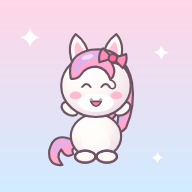
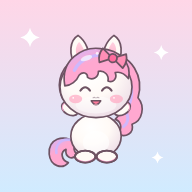
게임 중심: 판당 문제 3개·달리기 조각, 별은 도착·문제·당근으로, 포포 다시 그림
Claude-Session: https://claude.ai/code/session_01C8y8cjb2mzSbaBnT36YeeH

diff --git a/js/art.js b/js/art.js
@@ -2,7 +2,7 @@
 'use strict';
 const ART = (() => {
   const OL = '#6e5363';            // 테두리
-  const SW = 3.6;                  // 테두리 굵기
+  const SW = 3.0;                  // 테두리 굵기
   const FURS = {   // f 털, s 그림자, m 갈기, m2 갈기 줄, mz 주둥이
     white:    { name: '하얀 털',   f: '#fffaf6', s: '#ecdbe6', m: '#ffa8d0', m2: '#cbb8ff', mz: '#ffffff', price: 0 },
     pink:     { name: '분홍 털',   f: '#ffd9e6', s: '#f2bdd1', m: '#a98bfa', m2: '#e5dbff', mz: '#fff2f7', price: 30 },
@@ -353,57 +353,79 @@ const ART = (() => {
   /* ---------- 포포 (아기 포니, 주인공) ----------
      look: {fur, hat, cloth, face, shoes, back}
      pose: stand run0 run1 jump cheer, expr: normal happy oops wow wink sleep */
+  function heroEyes(expr, id) {
+    const y = 124;
+    const open = (x, side) => `<ellipse cx="${x}" cy="${y}" rx="9.6" ry="11.6" fill="url(#${id}e)"/>` +
+      `<ellipse cx="${x + 2.6}" cy="${y - 5}" rx="3.8" ry="4.4" fill="#fff"/><circle cx="${x - 3}" cy="${y + 5}" r="1.8" fill="#fff"/><circle cx="${x + 4}" cy="${y + 4}" r="1" fill="#fff" opacity=".8"/>` +
+      `<path d="M${x + side * 8} ${y - 8} q${side * 5} -3 ${side * 7} -8 M${x + side * 9.6} ${y - 3} q${side * 5} -1 ${side * 8} -4" fill="none" stroke="${OL}" stroke-width="2.2" stroke-linecap="round"/>`;
+    const smile = (x) => `<path d="M${x - 8} ${y + 2} Q${x} ${y - 9} ${x + 8} ${y + 2}" fill="none" stroke="${OL}" stroke-width="3.4" stroke-linecap="round"/>`;
+    switch (expr) {
+      case 'happy': return smile(82) + smile(118);
+      case 'wink': return open(82, -1) + smile(118);
+      case 'oops': return `<path d="M76 ${y - 7} L88 ${y} L76 ${y + 7} M124 ${y - 7} L112 ${y} L124 ${y + 7}" fill="none" stroke="${OL}" stroke-width="3.4" stroke-linecap="round" stroke-linejoin="round"/>`;
+      case 'sleep': return `<path d="M74 ${y} Q82 ${y + 7} 90 ${y} M110 ${y} Q118 ${y + 7} 126 ${y}" fill="none" stroke="${OL}" stroke-width="3.2" stroke-linecap="round"/>`;
+      case 'wow': return open(82, -1) + open(118, 1) + sparkle(84, y - 2, 5.5) + sparkle(120, y - 2, 5.5);
+    }
+    return open(82, -1) + open(118, 1);
+  }
+  function heroMouth(expr) {
+    const y = 146;
+    if (expr === 'sleep') return `<ellipse cx="100" cy="${y}" rx="3.4" ry="2.6" fill="#ff8fab"/>`;
+    if (expr === 'oops') return `<ellipse cx="100" cy="${y + 1}" rx="4.6" ry="5.4" fill="#e64980" stroke="${OL}" stroke-width="2.2"/>`;
+    if (expr === 'happy' || expr === 'wow' || expr === 'wink')
+      return `<path d="M92 ${y - 3} Q100 ${y + 10} 108 ${y - 3}Z" fill="#ff7b9c" stroke="${OL}" stroke-width="2.4" stroke-linejoin="round"/><path d="M96 ${y + 3} Q100 ${y + 6} 104 ${y + 3}" fill="#ffc9d6"/>`;
+    return `<path d="M94 ${y - 2} Q97 ${y + 3} 100 ${y - 1} Q103 ${y + 3} 106 ${y - 2}" fill="none" stroke="${OL}" stroke-width="2.4" stroke-linecap="round"/>`;
+  }
   function tori(look = {}, pose = 'stand', expr = 'normal') {
     const F = FURS[look.fur] || FURS.white;
     const P = POSE[pose] || POSE.stand;
     const id = uid();
     let s = `<svg xmlns="http://www.w3.org/2000/svg" viewBox="0 0 200 260" width="200" height="260">`;
-    s += `<defs><radialGradient id="${id}g" cx="38%" cy="28%" r="78%"><stop offset="0" stop-color="#ffffff"/><stop offset=".42" stop-color="${F.f}"/><stop offset="1" stop-color="${F.s}"/></radialGradient>
-      <linearGradient id="${id}m" x1="0" y1="0" x2="1" y2="1"><stop offset="0" stop-color="${F.m2}"/><stop offset=".35" stop-color="${F.m}"/><stop offset="1" stop-color="${F.m}"/></linearGradient></defs>`;
+    s += `<defs><radialGradient id="${id}g" cx="40%" cy="30%" r="75%"><stop offset="0" stop-color="#ffffff"/><stop offset=".5" stop-color="${F.f}"/><stop offset="1" stop-color="${F.s}"/></radialGradient>
+      <linearGradient id="${id}m" x1="0" y1="0" x2=".7" y2="1"><stop offset="0" stop-color="${F.m2}"/><stop offset=".45" stop-color="${F.m}"/><stop offset="1" stop-color="${F.m}"/></linearGradient>
+      <linearGradient id="${id}e" x1="0" y1="0" x2="0" y2="1"><stop offset="0" stop-color="#3b2a45"/><stop offset=".55" stop-color="#5c3f78"/><stop offset="1" stop-color="#b48ad6"/></linearGradient>
+      <linearGradient id="${id}i" x1="0" y1="0" x2="0" y2="1"><stop offset="0" stop-color="#ffd1e0"/><stop offset="1" stop-color="#ffb0c8"/></linearGradient></defs>`;
     const FG = `url(#${id}g)`, MG = `url(#${id}m)`;
+    const lw = 'stroke-width="2.8"';
     s += backLayer(look.back);
-    // 뒷갈기: 한쪽으로 길게 흘러내려요
-    s += `<path d="M96 62 Q150 58 160 112 Q166 152 150 188 Q140 200 128 196 Q140 180 136 160 Q128 178 114 180 Q130 156 128 128 Q124 96 96 62Z" ${st(MG)}/>`;
-    s += `<path d="M146 108 Q154 142 142 176" fill="none" stroke="${F.m2}" stroke-width="4" stroke-linecap="round" opacity=".9"/>`;
-    s += `<path d="M76 70 Q44 84 44 120 Q46 134 56 142 Q60 132 62 124 Q68 132 76 130 Q68 114 76 96Z" ${st(MG)}/>`;
-    // 꼬리 (갈기 색)
-    s += `<path d="M64 210 Q30 192 22 226 Q20 252 44 250 Q32 236 42 224 Q50 240 62 232 Q58 222 66 220Z" ${st(MG)}/><path d="M56 214 Q36 210 34 228" fill="none" stroke="${F.m2}" stroke-width="4" stroke-linecap="round" opacity=".9"/>`;
+    // 뒷갈기: 몽글몽글 흘러내림 (오른쪽 길게, 왼쪽 짧게)
+    s += `<path d="M118 62 C162 66 180 104 170 138 C182 152 178 176 160 182 C164 196 150 206 136 198 C146 188 140 176 132 174 C146 160 142 140 134 132 C146 112 140 84 118 62Z" ${st(MG, lw)}/>`;
+    s += `<path d="M150 98 C162 116 162 136 154 152 M150 162 C156 172 152 182 146 186" fill="none" stroke="${F.m2}" stroke-width="5" stroke-linecap="round" opacity=".9"/>`;
+    s += `<path d="M70 72 C42 82 34 112 42 134 C46 146 58 148 62 138 C56 128 60 116 68 108Z" ${st(MG, lw)}/>`;
+    // 꼬리
+    s += `<path d="M68 214 C44 196 20 208 22 232 C24 252 44 258 54 246 C42 242 40 228 50 224 C48 236 60 244 68 232 C62 226 62 220 68 214Z" ${st(MG, lw)}/><path d="M56 208 C40 206 32 218 34 230" fill="none" stroke="${F.m2}" stroke-width="4.4" stroke-linecap="round" opacity=".9"/>`;
     // 몸
-    s += `<ellipse cx="100" cy="202" rx="42" ry="37" ${st(FG)}/>`;
+    s += `<ellipse cx="100" cy="202" rx="42" ry="37" ${st(FG, lw)}/>`;
     s += `<clipPath id="${id}b"><ellipse cx="100" cy="202" rx="40" ry="35"/></clipPath>`;
-    s += `<ellipse cx="100" cy="212" rx="24" ry="20" fill="#fff" opacity=".55" clip-path="url(#${id}b)"/>`;
-    if (look.cloth) s += `<g clip-path="url(#${id}b)">${clothClip(look.cloth)}</g><ellipse cx="100" cy="202" rx="42" ry="37" fill="none" stroke="${OL}" stroke-width="${SW}"/>`;
-    // 발 (발굽은 갈기 색)
+    s += `<ellipse cx="100" cy="212" rx="22" ry="19" fill="#fff" opacity=".6" clip-path="url(#${id}b)"/>`;
+    if (look.cloth) s += `<g clip-path="url(#${id}b)">${clothClip(look.cloth)}</g><ellipse cx="100" cy="202" rx="42" ry="37" fill="none" stroke="${OL}" stroke-width="3"/>`;
     s += foot(P.L[0], P.L[1], P.L[2], F.f, look.shoes, F.m) + foot(P.R[0], P.R[1], P.R[2], F.f, look.shoes, F.m);
     s += clothOver(look.cloth);
-    // 앞다리
     const ARM = { raincoat: '#ffd43b', sailor: '#fff', princess: '#d0bfff', sparkledress: '#91a7ff', stripe: '#fff', overall: '#ffe28a', dress: '#ffb3cc', heartshirt: '#fff', pajama: '#a5d8ff', bee: '#ffd43b', tutu: '#ffc9de', hanbok: '#ff8fa3' };
     const armFill = ARM[look.cloth] || F.f;
-    s += `<ellipse cx="64" cy="${194 + P.ay}" rx="10" ry="15" transform="rotate(${P.aL} 66 ${182 + P.ay})" ${st(armFill)}/>`;
-    s += `<ellipse cx="136" cy="${194 + P.ay}" rx="10" ry="15" transform="rotate(${P.aR} 134 ${182 + P.ay})" ${st(armFill)}/>`;
+    const arm = (cx, rot, px) => `<g transform="rotate(${rot} ${px} ${182 + P.ay})"><ellipse cx="${cx}" cy="${194 + P.ay}" rx="10" ry="15" ${st(armFill, lw)}/><path d="M${cx - 9} ${200 + P.ay} Q${cx} ${213 + P.ay} ${cx + 9} ${200 + P.ay} L${cx + 8} ${204 + P.ay} Q${cx} ${212 + P.ay} ${cx - 8} ${204 + P.ay}Z" fill="${F.m}"/></g>`;
+    s += arm(64, P.aL, 66) + arm(136, P.aR, 134);
     if (look.cloth === 'hanbok') {
       const band = (cx, rot) => `<g transform="rotate(${rot} ${cx < 100 ? 66 : 134} ${182 + P.ay})">${['#ffe066', '#69db7c', '#74c0fc', '#fff'].map((c, i) => `<rect x="${cx - 9}" y="${186 + P.ay + i * 4}" width="18" height="3" fill="${c}"/>`).join('')}</g>`;
       s += band(64, P.aL) + band(136, P.aR);
     }
-    // 귀
-    s += `<path d="M64 88 Q48 52 66 32 Q86 46 90 74Z" ${st(F.f)}/><path d="M68 76 Q60 54 68 44 Q80 54 82 70Z" fill="#ffc2d6"/>`;
-    s += `<path d="M136 88 Q152 52 134 32 Q114 46 110 74Z" ${st(F.f)}/><path d="M132 76 Q140 54 132 44 Q120 54 118 70Z" fill="#ffc2d6"/>`;
+    // 귀 (동글 잎 모양)
+    s += `<path d="M66 84 C54 66 56 42 70 34 C84 44 90 62 88 76Z" ${st(F.f, lw)}/><path d="M70 74 C64 62 66 50 72 45 C80 54 82 64 81 72Z" fill="url(#${id}i)"/>`;
+    s += `<path d="M134 84 C146 66 144 42 130 34 C116 44 110 62 112 76Z" ${st(F.f, lw)}/><path d="M130 74 C136 62 134 50 128 45 C120 54 118 64 119 72Z" fill="url(#${id}i)"/>`;
     // 머리
-    s += `<ellipse cx="100" cy="118" rx="58" ry="52" ${st(FG)}/>`;
-    // 주둥이 (은은하게)
-    s += `<ellipse cx="100" cy="146" rx="30" ry="15.5" fill="${F.mz}" opacity=".95"/>`;
-    s += `<path d="M90 141 q2 -2 4 0 M106 141 q2 -2 4 0" fill="none" stroke="${OL}" stroke-width="2.2" stroke-linecap="round" opacity=".55"/>`;
+    s += `<ellipse cx="100" cy="120" rx="60" ry="51" ${st(FG, lw)}/>`;
+    s += `<ellipse cx="100" cy="150" rx="34" ry="14" fill="#fff" opacity=".45"/>`;
     // 볼
-    if (look.face === 'heartcheeks') s += heart(66, 134, 8, '#ff9cbc', 1.6) + heart(134, 134, 8, '#ff9cbc', 1.6);
-    else s += `<ellipse cx="66" cy="134" rx="10" ry="6.5" fill="#ffadc6" opacity=".8"/><ellipse cx="134" cy="134" rx="10" ry="6.5" fill="#ffadc6" opacity=".8"/>`;
-    s += eyes(expr);
-    s += `<g transform="translate(0 12)">${mouth(expr)}</g>`;
-    // 앞머리: 옆으로 쓸어 넘긴 갈기 + 동그란 컬
-    s += `<path d="M58 106 Q50 66 92 58 Q138 52 150 90 Q140 80 126 80 Q136 96 124 108 Q118 88 100 86 Q84 86 76 98 Q70 108 58 106Z" ${st(MG)}/>`;
-    s += `<path d="M66 92 Q80 68 112 66" fill="none" stroke="${F.m2}" stroke-width="5" stroke-linecap="round" opacity=".95"/>`;
-    s += `<path d="M124 108 Q134 112 132 120 Q128 126 122 120" fill="none" stroke="${OL}" stroke-width="2.6" stroke-linecap="round"/>`;
-    s += `<ellipse cx="86" cy="70" rx="10" ry="4" fill="#fff" opacity=".6" transform="rotate(-16 86 70)"/>`;
-    s += faceItem(look.face);
+    if (look.face === 'heartcheeks') s += heart(68, 140, 8, '#ff9cbc', 1.6) + heart(132, 140, 8, '#ff9cbc', 1.6);
+    else s += `<ellipse cx="66" cy="140" rx="11" ry="7" fill="#ffadc6" opacity=".75"/><ellipse cx="134" cy="140" rx="11" ry="7" fill="#ffadc6" opacity=".75"/><circle cx="62" cy="138" r="1.4" fill="#fff"/><circle cx="130" cy="138" r="1.4" fill="#fff"/>`;
+    s += heroEyes(expr, id);
+    s += `<path d="M95 138 q2 -1.6 4 0 M101 138 q2 -1.6 4 0" fill="none" stroke="${OL}" stroke-width="1.8" stroke-linecap="round" opacity=".45"/>`;
+    s += heroMouth(expr);
+    // 앞머리: 몽글몽글 쓸어 넘긴 갈기 + 정수리 꼬불
+    s += `<path d="M48 118 C40 74 78 52 108 56 C140 58 160 80 154 106 C148 98 140 94 132 96 C136 106 128 114 120 110 C122 100 114 92 104 94 C104 104 94 110 86 104 C86 96 78 94 72 100 C68 110 58 118 48 118Z" ${st(MG, lw)}/>`;
+    s += `<path d="M64 92 C74 72 96 64 120 68" fill="none" stroke="${F.m2}" stroke-width="5.5" stroke-linecap="round" opacity=".95"/>`;
+    s += `<ellipse cx="84" cy="72" rx="10" ry="4.2" fill="#fff" opacity=".65" transform="rotate(-20 84 72)"/><circle cx="102" cy="64" r="2.4" fill="#fff" opacity=".8"/>`;
+    s += ['glasses', 'sunglasses', 'heartglasses', 'goldstar'].includes(look.face) ? `<g transform="translate(-1 6)">${faceItem(look.face)}</g>` : faceItem(look.face);
     s += hatLayer(look.hat);
     return s + `</svg>`;
   }

diff --git a/js/runner.js b/js/runner.js
@@ -4,7 +4,7 @@
 const Runner = (() => {
   let cv, c, W = 0, H = 0, dpr = 1, u = 1, gy = 0, tx = 0;
   let raf = 0, last = 0, G = null, paused = false, holding = false;
-  const SPEED = 340, SEG = 2400, OW = 104, BLOCK_Y = 300, POLE_H = 460;
+  const SPEED = 360, SEG = 2400, OW = 104, BLOCK_Y = 300, POLE_H = 460;
 
   /* 월드마다 풍경: 하늘 3색, 산 3겹, 풀, 흙 */
   const THEMES = {
@@ -49,33 +49,37 @@ const Runner = (() => {
     const obs = [], items = [];
     const boss = opt.mode === 'boss';
     const hurdles = [];
+    /* 달리기 조각 (길이 600): 문제 사이를 이걸로 채워요 */
+    const PIECES = {
+      line: (p) => { for (let k = 0; k < 6; k++) items.push({ x: p + 60 + k * 62, y: 60, kind: 'c' }); },
+      hop: (p) => { hurdles.push({ x: p + 260, w: 60, h: 58 }); for (let k = 0; k < 5; k++) items.push({ x: p + 170 + k * 60, y: 90 + Math.sin((k / 4) * Math.PI) * 110, kind: 'c' }); },
+      tall: (p) => { hurdles.push({ x: p + 280, w: 60, h: 104, tall: true }); items.push({ x: p + 310, y: 260, kind: 's' }); for (let k = 0; k < 3; k++) items.push({ x: p + 420 + k * 60, y: 60, kind: 'c' }); },
+      twin: (p) => { hurdles.push({ x: p + 180, w: 60, h: 58 }, { x: p + 420, w: 60, h: 58 }); items.push({ x: p + 210, y: 180, kind: 'c' }, { x: p + 450, y: 180, kind: 'c' }, { x: p + 330, y: 60, kind: 'c' }); },
+      cloud: (p, gives) => { items.push({ x: p + 300, y: BLOCK_Y, kind: 'q', gives: gives || 'carrots', bump: 0 }); for (let k = 0; k < 4; k++) items.push({ x: p + 120 + k * 60, y: 60, kind: 'c' }); },
+      sky: (p) => { for (let k = 0; k < 6; k++) items.push({ x: p + 100 + k * 60, y: 260 + Math.sin((k / 5) * Math.PI) * 120, kind: 'c' }); items.push({ x: p + 260, y: 420, kind: 's' }); },
+      stairs: (p) => { hurdles.push({ x: p + 120, w: 60, h: 58 }, { x: p + 360, w: 60, h: 104, tall: true }); for (let k = 0; k < 6; k++) items.push({ x: p + 100 + k * 70, y: 120 + k * 30, kind: 'c' }); },
+      big: (p) => { items.push({ x: p + 300, y: 300, kind: 'big' }); hurdles.push({ x: p + 250, w: 60, h: 58 }); },
+    };
+    const ORDER = [['line', 'hop', 'cloud', 'sky', 'tall', 'twin', 'line', 'hop'], ['hop', 'line', 'twin', 'cloud', 'sky', 'stairs', 'big', 'hop'], ['line', 'tall', 'cloud', 'stairs', 'sky', 'twin', 'hop', 'big']];
+    const PL = 600, SEGN = 8;
     let x = 1150;
+    if (!boss && opt.mode !== 'bonus') {   // 처음엔 문제 없이 신나게 달리기부터
+      PIECES.line(420); PIECES.hop(1020); PIECES.sky(1620);
+      x = 2400;
+    }
     if (!boss) {
+      const gifts = ['carrots', 'gold', Math.random() < 0.5 ? 'star' : 'balloon'];
       for (let i = 0; i < opt.count; i++) {
         obs.push({ x, type: T.obst[i % 2], qi: i, asked: false, done: false, jumpReady: false });
-        const o = x + OW;
-        // 당근 줄
-        const pat = ['line', 'arc', 'high', 'arc', 'line'][(i + opt.seed) % 5];
-        const a = o + 200;
-        if (pat === 'line') for (let k = 0; k < 5; k++) items.push({ x: a + k * 62, y: 60, kind: 'c' });
-        if (pat === 'arc') for (let k = 0; k < 6; k++) items.push({ x: a + k * 58, y: 60 + Math.sin((k / 5) * Math.PI) * 170, kind: 'c' });
-        if (pat === 'high') for (let k = 0; k < 4; k++) items.push({ x: a + 20 + k * 58, y: 200, kind: 'c' });
-        // 뛰어넘는 장애물 두 개 (위로 당근 무지개)
-        const h1 = o + 700, h2 = o + 1520;
-        const tall2 = i % 2 === 1;
-        hurdles.push({ x: h1, w: 60, h: 58, tall: false });
-        hurdles.push({ x: h2, w: 60, h: tall2 ? 104 : 58, tall: tall2 });
-        for (let k = 0; k < 5; k++) items.push({ x: h1 - 90 + k * 60, y: 90 + Math.sin((k / 4) * Math.PI) * 110, kind: 'c' });
-        items.push({ x: h2 + 30, y: tall2 ? 250 : 200, kind: 's' });
-        // ❓ 선물 구름
-        const gives = ['carrots', 'gold', Math.random() < 0.5 ? 'star' : 'balloon', ['carrots', 'star', 'balloon'][Math.floor(Math.random() * 3)], 'carrots'][i];
-        if (gives) items.push({ x: o + 1120, y: BLOCK_Y, kind: 'q', gives, bump: 0 });
-        if (i === 2) items.push({ x: o + 1880, y: 300, kind: 'big' });
-        // 숨은 황금 당근 (꾹 또는 2단 점프로)
-        if (i === 1) items.push({ x: o + 1330, y: 430, kind: 'G', gi: 0 });
-        if (i === 3) items.push({ x: o + 1860, y: 450, kind: 'G', gi: 2 });
-        x += SEG;
+        const o = x + OW + 160;
+        const order = ORDER[(i + opt.seed) % 3];
+        order.forEach((name, k) => PIECES[name](o + k * PL, name === 'cloud' ? gifts[i % 3] : null));
+        // 숨은 황금 당근 (꾹 또는 2단 점프로): 판마다 2개는 높은 곳, 1개는 선물 구름 속
+        if (i === 0) items.push({ x: o + 5 * PL + 300, y: 440, kind: 'G', gi: 0 });
+        if (i === opt.count - 1) items.push({ x: o + 6 * PL + 260, y: 450, kind: 'G', gi: 2 });
+        x += OW + 160 + SEGN * PL + 300;
       }
+      if (opt.count > 0 && !items.some((it) => it.gives === 'gold')) { const q = items.find((it) => it.kind === 'q'); if (q) q.gives = 'gold'; }
     }
     if (opt.mode === 'bonus') {   // 보너스 길: 문제 없이 당근이 가득
       for (let k = 0; k < 44; k++) {
@@ -88,9 +92,9 @@ const Runner = (() => {
         else items.push({ x: bx, y: 240, kind: 's' }, { x: bx + 70, y: 60, kind: 'c' });
       }
     }
-    const finishX = boss ? 1e9 : opt.mode === 'bonus' ? 7600 : obs[obs.length - 1].x + 2150;
+    const finishX = boss ? 1e9 : opt.mode === 'bonus' ? 7600 : x - 300 + 250;
     G = {
-      opt, T, env, obs, items, hurdles, finishX, boss, bumps: 0, scroll: 0, speed: 0, target: SPEED, state: 'run',
+      opt, T, env, obs, items, hurdles, finishX, boss, bumps: 0, carrotTotal: items.filter((it) => it.kind === 'c').length, carrotGot: 0, scroll: 0, speed: 0, target: SPEED, state: 'run',
       tori: { y: 0, vy: 0, air: false, dbl: false, holdT: 0, expr: 'normal', exprT: 0, pose: 'run0', poseT: 0, squash: 0 },
       hist: [], parts: [], amb: [], seasonal: [], time: 0, rescueT: 0, look: opt.look,
       power: null, streak: 0, streakT: 0, shake: 0, gold: [false, false, false],
@@ -161,7 +165,7 @@ const Runner = (() => {
     if (!G || !G.boss) return;
     const B = G.bossS;
     B.shots.push({ t: 0, dmg, big: dmg >= 2 });
-    B.phaseT = 3.6; B.puffT = 0.35;
+    B.phaseT = 5.2; B.puffT = 0.35; B.puff2 = 2.2;
     G.state = 'run'; G.target = SPEED * 0.6;
     react('happy', 1.2); Sfx.jump();
   }
@@ -264,7 +268,7 @@ const Runner = (() => {
           hearts(fx, gy - 160 * u);
           fireworks(5);
         }
-        if (g.rescueT > 3.0 && !g.ended) { g.ended = true; g.opt.onFinish({ gold: g.gold.slice(), pole: g.pole ? g.pole.tier : 1 }); }
+        if (g.rescueT > 3.0 && !g.ended) { g.ended = true; g.opt.onFinish({ gold: g.gold.slice(), pole: g.pole ? g.pole.tier : 1, carrots: g.carrotGot / Math.max(1, g.carrotTotal), bumps: g.bumps }); }
       }
     }
     // 뛰어넘는 장애물
@@ -326,7 +330,7 @@ const Runner = (() => {
       if (Math.abs(sx - tx) < 58 * u && it.y > t.y / u - 20 && it.y < t.y / u + 200) {
         it.got = true;
         const sy = gy - it.y * u;
-        if (it.kind === 'c') { g.streak++; g.streakT = 1.1; Sfx.carrot(g.streak); g.opt.onCarrot(1, sx, sy, 'c'); burst(sx, sy, '#ff922b', 6); }
+        if (it.kind === 'c') { g.carrotGot++; g.streak++; g.streakT = 1.1; Sfx.carrot(g.streak); g.opt.onCarrot(1, sx, sy, 'c'); burst(sx, sy, '#ff922b', 6); }
         else if (it.kind === 'big') { Sfx.star(); g.opt.onCarrot(5, sx, sy, 'big'); burst(sx, sy, '#ffd43b', 16); react('wow', 0.9); }
         else if (it.kind === 's') { Sfx.star(); g.opt.onCarrot(3, sx, sy, 's'); burst(sx, sy, '#fff3a3', 14); react('happy', 0.8); }
         else if (it.kind === 'G') {
@@ -389,6 +393,10 @@ const Runner = (() => {
       }
     }
     B.shots = B.shots.filter((s) => s.t < 1.2);
+    if (g.state === 'run' && B.puff2 > 0) {
+      B.puff2 -= dt;
+      if (B.puff2 <= 0) { const me = (g.scroll + tx) / u; g.hurdles.push({ x: me + (W - tx) / u + 40, w: 56, h: 56, roll: true, puff: true }); }
+    }
     if (g.state === 'run' && B.puffT > 0) {
       B.puffT -= dt;
       if (B.puffT <= 0) { const me = (g.scroll + tx) / u; g.hurdles.push({ x: me + (W - tx) / u + 40, w: 56, h: 56, roll: true, puff: true }); Sfx.wind(); B.mood = 'angry'; }

diff --git a/js/screens.js b/js/screens.js
@@ -20,6 +20,7 @@ const UI = (() => {
     if (name !== 'game' && Runner.active) Runner.stop();
     if (cur !== name && name !== 'home') { try { history.pushState({ s: name }, ''); } catch (e) {} }
     cur = name;
+    const tt = $('#toast'); if (tt) tt.classList.remove('on');
     app.classList.toggle('pass', name === 'game');
     if (unlocked && S().set.music) Sfx.startMusic(name === 'game' ? (arg && arg.s === 'b' ? 'boss' : 'run') : 'home');
     closeModal();
@@ -208,7 +209,7 @@ const UI = (() => {
   /* ---------- 오늘의 미션 ---------- */
   const MISSIONS = {
     play:  { icon: '🏃', text: (g) => `달리기 ${g}판 끝내기`, goal: 2, reward: 25 },
-    first: { icon: '🧠', text: (g) => `한 번에 정답 ${g}개`, goal: 8, reward: 25 },
+    first: { icon: '🧠', text: (g) => `한 번에 정답 ${g}개`, goal: 5, reward: 25 },
     field: { icon: '🥕', text: (g) => `길에서 당근 ${g}개 줍기`, goal: 40, reward: 20 },
     star3: { icon: '⭐', text: () => '별 3개 받기', goal: 1, reward: 30 },
     shine: { icon: '✨', text: (g) => `점프해서 반짝이 ${g}개 잡기`, goal: 3, reward: 20 },
@@ -428,12 +429,12 @@ const UI = (() => {
   function game({ w, s }) {
     const st = S();
     const boss = s === 'b', bonus = s === 'x';
-    const qs = boss ? QS.makeBossSet(w, 10, st.recent) : bonus ? [] : QS.makeSet(w, s, 5, st.recent);
+    const qs = boss ? QS.makeBossSet(w, 10, st.recent) : bonus ? [] : QS.makeSet(w, s, 3, st.recent);
     // 🔁 전에 틀린 문제를 두 개까지 다시 (같은 섬, 무지개 길은 아무 섬)
     st.retry = (st.retry || []).filter((r) => r && r.q && r.q.choices);
     if (!boss && !bonus) {
       const pool = st.retry.filter((r) => r.w === w || w === W.length - 1).slice(0, 2);
-      pool.forEach((r, k) => { const at = 1 + k * 2; if (at < qs.length && !qs.some((q) => q.key === r.q.key)) qs[at] = Object.assign({}, r.q, { retry: true }); });
+      pool.forEach((r, k) => { const at = 1 + k; if (at < qs.length && !qs.some((q) => q.key === r.q.key)) qs[at] = Object.assign({}, r.q, { retry: true }); });
     }
     const fr = boss || bonus ? null : friendOf(w, s);
     G = { w, s, boss, bonus, qs, qi: -1, tries: 0, res: [], combo: 0, best: 0, qCarrots: 0, field: 0, poleBonus: 0, gold: [false, false, false],
@@ -447,7 +448,7 @@ const UI = (() => {
       <div class="comboHud" id="combo"></div>
       <div id="qbox"></div></div>`;
     Runner.start({
-      mode: boss ? 'boss' : bonus ? 'bonus' : 'stage', bossIdx: w, hp: 8,
+      mode: boss ? 'boss' : bonus ? 'bonus' : 'stage', bossIdx: w, hp: 6,
       world: W[w].id, count: qs.length, seed: Math.floor(Math.random() * 6), look: st.look,
       team: st.team.filter((id) => st.friends[id]).slice(0, 3).map((id) => ({ id, top: st.friends[id].top || '' })),
       rescue: G.rescue, slow: !!st.set.slow, tapHint: !st.seen.tap, goldHint: !st.seen.gold, blockHint: !st.seen.block,
@@ -656,7 +657,9 @@ const UI = (() => {
       return;
     }
     const key = stageKey(G.w, G.s);
-    const stars = firsts >= n - 1 ? 3 : firsts >= Math.ceil(n * 0.6) ? 2 : 1;
+    // 별: 도착 1 + 문제(2개 이상 한 번에) 1 + 달리기(당근 70% 이상) 1
+    const starQ = firsts >= n - 1, starRun = (res.carrots || 0) >= 0.7;
+    const stars = 1 + (starQ ? 1 : 0) + (starRun ? 1 : 0);
     const prev = st.stars[key] || 0;
     st.stars[key] = Math.max(prev, stars);
     if (stars === 3) mission('star3', 1);
@@ -689,7 +692,7 @@ const UI = (() => {
       ${firsts === n ? '<div class="perfect">PERFECT 💯</div>' : ''}
       <h2>도착! ${stars === 3 ? '완벽해요 🎉' : stars === 2 ? '잘했어요 🎉' : '해냈어요 🎉'}</h2>
       <div class="bigStars">${[0, 1, 2].map((i) => `<span class="${i < stars ? '' : 'off'}">★</span>`).join('')}</div>
-      <p>한 번에 맞힌 문제 <b>${firsts}</b> / ${n}${G.best >= 3 ? ` · 🔥 최고 ${G.best}연속` : ''}</p>
+      <div class="starWhy"><span class="on">⭐ 도착!</span><span class="${starQ ? 'on' : ''}">⭐ 문제 ${firsts}/${n}</span><span class="${starRun ? 'on' : ''}">⭐ 당근 ${Math.round((res.carrots || 0) * 100)}%</span></div>
       <div class="goldRow big">${[0, 1, 2].map((i) => `<i class="${goldNow[i] ? 'on' : ''} ${res.gold[i] && !g0[i] ? 'new' : ''}"></i>`).join('')}<span>${allGold ? '황금 당근 다 모았다! +20' : newGold ? `황금 당근 ${newGold}개 찾았어요!` : '숨은 황금 당근을 찾아봐요'}</span></div>
       ${newFriend ? `<div class="topRow"><div class="chip on" style="font-size:24px">${ART.friend(newFriend.id)} 새 친구 <b>${newFriend.name}</b>(${newFriend.kind})${QS.josa(newFriend.kind, '을', '를').slice(newFriend.kind.length)} 구했어요!</div></div>` : ''}
       <div class="gain">${carrotTag()}<b>+${total}</b></div>

diff --git a/index.html b/index.html
@@ -10,20 +10,20 @@
 <link rel="manifest" href="manifest.webmanifest">
 <link rel="icon" href="icons/icon-192.png">
 <link rel="apple-touch-icon" href="icons/icon-192.png">
-<link rel="stylesheet" href="css/style.css?v=11">
+<link rel="stylesheet" href="css/style.css?v=12">
 </head>
 <body>
 <canvas id="cv"></canvas>
 <div id="app"></div>
 <div id="fx"></div>
 <div id="toast"></div>
-<script src="js/art.js?v=11"></script>
-<script src="js/questions.js?v=11"></script>
-<script src="js/core.js?v=11"></script>
-<script src="js/runner.js?v=11"></script>
-<script src="js/story.js?v=11"></script>
-<script src="js/map.js?v=11"></script>
-<script src="js/screens.js?v=11"></script>
+<script src="js/art.js?v=12"></script>
+<script src="js/questions.js?v=12"></script>
+<script src="js/core.js?v=12"></script>
+<script src="js/runner.js?v=12"></script>
+<script src="js/story.js?v=12"></script>
+<script src="js/map.js?v=12"></script>
+<script src="js/screens.js?v=12"></script>
 <script>
   if ('serviceWorker' in navigator && location.protocol === 'https:') {
     navigator.serviceWorker.register('sw.js').catch(() => {});

diff --git a/sw.js b/sw.js
@@ -1,6 +1,6 @@
 /* 토리의 반짝 달리기 — 서비스 워커: 인터넷이 있으면 새 파일, 없으면 저장해 둔 것 */
-const CACHE = 'tori-run-v11';
-const FILES = ['./', 'index.html', 'css/style.css?v=11', 'js/art.js?v=11', 'js/questions.js?v=11', 'js/core.js?v=11', 'js/runner.js?v=11', 'js/story.js?v=11', 'js/map.js?v=11', 'js/screens.js?v=11',
+const CACHE = 'tori-run-v12';
+const FILES = ['./', 'index.html', 'css/style.css?v=12', 'js/art.js?v=12', 'js/questions.js?v=12', 'js/core.js?v=12', 'js/runner.js?v=12', 'js/story.js?v=12', 'js/map.js?v=12', 'js/screens.js?v=12',
   'fonts/fredoka.woff2',
   'fonts/jua-ko.woff2', 'fonts/jua-latin.woff2', 'manifest.webmanifest', 'icons/icon-192.png', 'icons/icon-512.png'];
 self.addEventListener('install', (e) => {

diff --git a/css/style.css b/css/style.css
@@ -453,3 +453,7 @@ button { font-family: var(--font); color: var(--ink); cursor: pointer; border: 0
 .jbox { box-shadow: inset 0 0 0 6px #fff, inset 0 0 40px rgba(20, 80, 130, .25); }
 
 .deco .land { position: absolute; left: 0; right: 0; bottom: 0; width: 100%; height: 38vh; }
+
+.starWhy { display: flex; gap: 8px; justify-content: center; margin: 4px 0 6px; flex-wrap: wrap; }
+.starWhy span { background: #f3eef2; color: #b9a8b4; border-radius: 99px; padding: 5px 12px; font-size: 20px; }
+.starWhy span.on { background: #fff3bf; color: #b07d00; }

diff --git a/dev/dbg.py b/dev/dbg.py
@@ -12,7 +12,7 @@ async def main():
         r = await pg.evaluate(JS)
         print(r)
         await pg.wait_for_timeout(1500)
-        await pg.screenshot(path='/home/claude/tori-run/dev/out/dbg.png')
+        await pg.screenshot(path='/home/claude/tori-run/dev/out/dbg.png', full_page=True)
         await b.close()
 try: asyncio.run(main())
 finally: srv.terminate()

diff --git a/HANDOFF.md b/HANDOFF.md
@@ -11,6 +11,11 @@
 - 지도 새로: 부드러운 섬 모양(얕은 바다·거품·모래·잔디 그라데이션), 섬 이름 리본, 징검돌 길(지난 길은 금색), 반짝이는 칸 버튼, 나무·소나무·야자수·풍차·파라솔, 나침반, 떠다니는 구름, 물결 반짝임.
 - 첫 화면 아래 언덕 풍경.
 
+## 11/9 오후 (오빠: 아직 문제가 너무 자주 나옴 — 게임이 메인이어야 함, 캐릭터 별로 안 예쁨)
+- **판마다 문제 3개**. 시작하면 문제 없이 달리기부터(약 6초), 문제 사이는 '달리기 조각' 8개(600씩: line·hop·tall·twin·cloud·sky·stairs·big)로 약 15초. 한 판 약 60초, 문제는 약 18초마다. 속도 360.
+- **별 = 도착 1 + 문제(3개 중 2개 이상 한 번에) 1 + 달리기(길 당근 70% 이상) 1** → 결과 화면에 이유 표시. 보스는 체력 6, 문제 사이 5.2초 동안 구름 공 2개.
+- 포포 다시 그림: 크고 반짝이는 눈(그라데이션 눈동자·속눈썹), 주둥이 없앰, 몽글몽글한 갈기·꼬리, 동글 잎 귀, 발굽, 테두리 얇게(SW 3.0). 안경류는 눈 위치에 맞춰 6 내림.
+
 ## 무엇인가
 - 오빠 이광희가 동생 채재윤(8세, 초1, 레노버 태블릿 가로 1280×800)에게 주는 **놀이용 공부 게임**. 공부방(jaeyun-room)과 완전히 따로(동기화·기록 전송 없음, 하고 싶을 때 마음대로).
 - 주소: https://dlrhkdgml999-dotcom.github.io/tori-run/ (main에 push하면 GitHub Pages로 바로 배포)
@@ -49,7 +54,7 @@
 - `js/story.js` 이야기 장면, `js/map.js` 여정 지도
 - `js/screens.js` 화면 UI(첫 화면·지도·게임·결과·옷방·친구·사진관·앨범·미션·도장·설정)
 - `sw.js` 인터넷 없이도 열림(있으면 새 파일), `manifest.webmanifest`, `icons/`, `fonts/`(Jua 한글, Fredoka 영어 — OFL)
-- 파일을 고치면 `index.html`·`sw.js`의 `?v=` 숫자와 `sw.js`의 CACHE 이름을 같이 올려요(지금 v=11).
+- 파일을 고치면 `index.html`·`sw.js`의 `?v=` 숫자와 `sw.js`의 CACHE 이름을 같이 올려요(지금 v=12).
 
 ## 검증
 - `bash dev/run_all.sh` — 전부(문제 점검, 4월드 여정, 기본 흐름, 막 누르기 700번, 화면 크기 3개, 보너스 길). 캡처·로그는 `dev/out/`.
